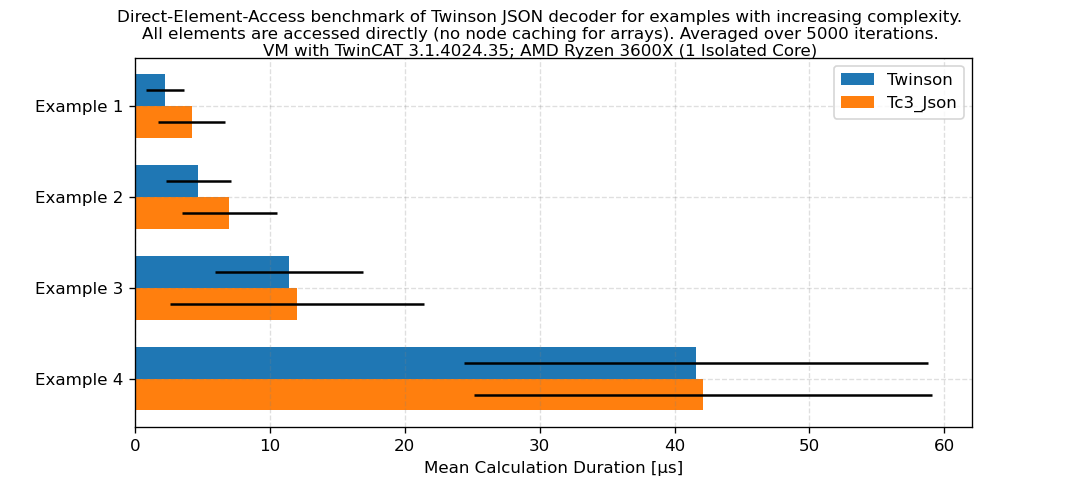
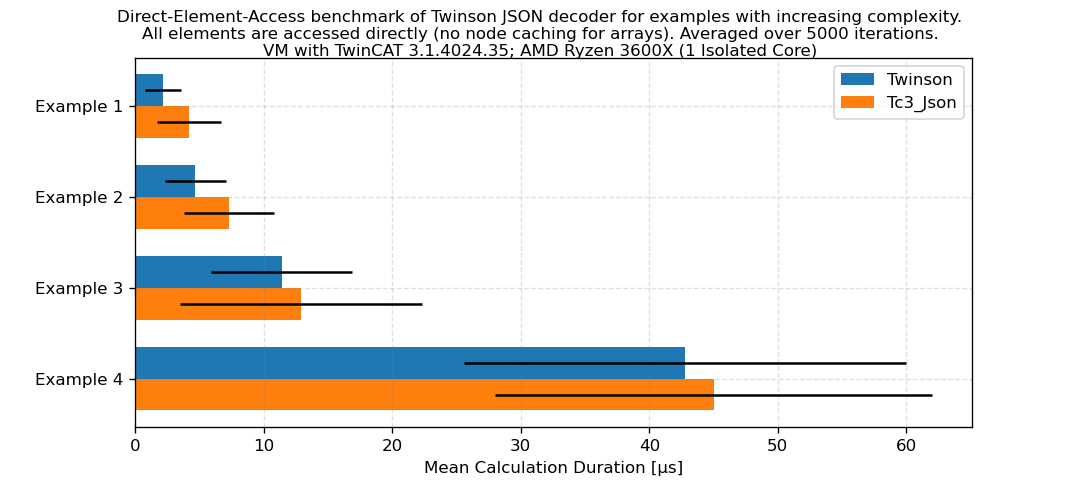
fix: array nodes copied name before it was overwritten anyway

diff --git a/Benchmark/benchmark_plot.py b/Benchmark/benchmark_plot.py
@@ -5,8 +5,8 @@ import numpy as np
 
 
 ticks = ('Example 1', 'Example 2', 'Example 3', 'Example 4')
-twinson_average_mean = [2.2, 4.7, 11.4, 41.6]
-domparser_average_mean = [4.2, 7.0, 12.0, 42.1]
+twinson_average_mean = [2.2, 4.7, 11.4, 42.8]
+domparser_average_mean = [4.2, 7.3, 12.9, 45.0]
 twinson_average_err = [1.4, 2.4, 5.5, 17.2]
 domparser_average_err = [2.5, 3.5, 9.4, 17.0]
 
